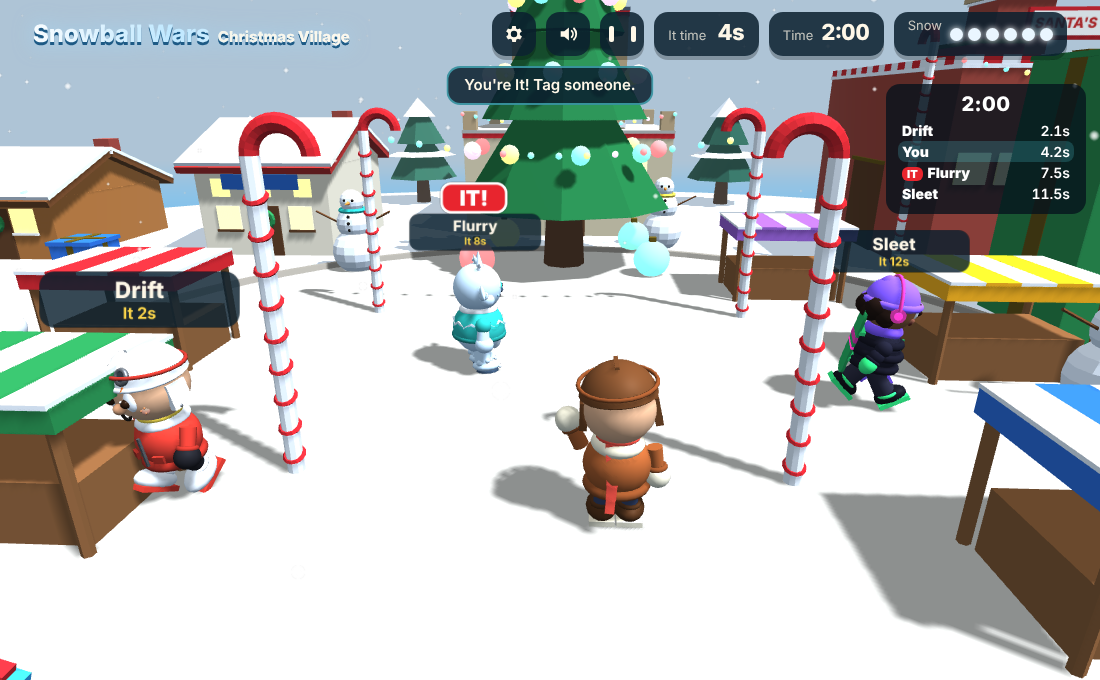
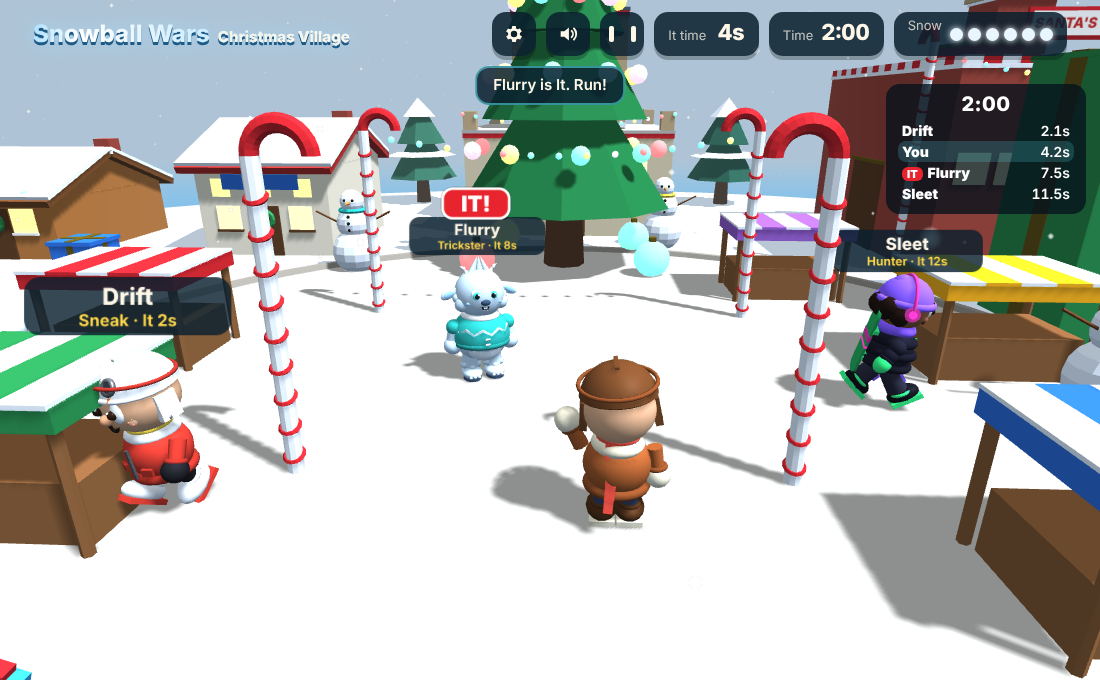
2.23.2: fix Tag bots never tagging; Hunter / Trickster / Sneak personalities; stunned It can't tag
Claude-Session: https://claude.ai/code/session_01SxDArWDFzscbpHeAT2armF

diff --git a/js/tag.js b/js/tag.js
@@ -23,7 +23,7 @@ function startTag(o={}){if(!canTag()&&!TAG.on)return;if(TAG.on)tagStop(false);if
   if(!MP.client){orbs.forEach(q=>rmObj(q.g));orbs=[];runHz.forEach(h=>rmObj(h.g));runHz=[];runQ=[]}
   dropCombo();score=0;
   const peers=warPeers(),n=o.bots!==undefined?o.bots:(peers.length?0:T.tag.bots);TAG.bots=[];
-  for(let k=0;k<n;k++){const b=makeBot(k);b.key='bot'+k;b.it=itSprite();b.a.g.add(b.it);b.it.position.y=3.35;b.cool=0;TAG.bots.push(b);TAG.itT[b.key]=0}
+  for(let k=0;k<n;k++){const b=makeBot(k);b.key='bot'+k;b.it=itSprite();b.a.g.add(b.it);b.it.position.y=3.35;b.cool=0;b.count=0;b.safeT=0;b.pers=TAG_PERS[k%TAG_PERS.length];TAG.bots.push(b);TAG.itT[b.key]=0}
   // who starts as It: a friend's game says; otherwise anyone at random
   if(o.it)TAG.it=o.it;else{const all=['me',...TAG.bots.map(b=>b.key),...peers.map(p=>p.peer)];TAG.it=all[Math.floor(Math.random()*all.length)]}
   if(TAG.it!=='me'&&!TAG.it.startsWith('bot')){TAG.seq++;TAG.last=[TAG.seq,TAG.it]}   // tell that friend they're It
@@ -63,7 +63,8 @@ function tagChecks(){if(TAG.cd>0)return;
     for(const b of TAG.bots)if(!(TAG.safeT>0&&TAG.safeFrom===b.key)&&tagNear(P.position.x,py,P.position.z,b.x,b.y,b.z)){passIt('me',b.key);return}
     for(const p of tagPeers()){if(TAG.safeT>0&&TAG.safeFrom===p.peer)continue;const a=MP.av.get(p.peer);if(a&&tagNear(P.position.x,py,P.position.z,a.g.position.x,a.g.position.y,a.g.position.z)){passIt('me',p.peer);return}}}
   const ib=TAG.bots.find(b=>b.key===TAG.it);
-  if(ib&&ib.count<=0){if(!(ib.safeT>0&&ib.safeFrom==='me')&&tagNear(ib.x,ib.y,ib.z,P.position.x,py,P.position.z)){passIt(ib.key,'me');return}
+  // a stunned It (hit by a snowball) can't tag
+  if(ib&&(ib.count||0)<=0&&ib.stun<=0){if(!(ib.safeT>0&&ib.safeFrom==='me')&&tagNear(ib.x,ib.y,ib.z,P.position.x,py,P.position.z)){passIt(ib.key,'me');return}
     for(const b of TAG.bots)if(b!==ib&&!(ib.safeT>0&&ib.safeFrom===b.key)&&tagNear(ib.x,ib.y,ib.z,b.x,b.y,b.z)){passIt(ib.key,b.key);return}}}
 // a friend tagged me (their presence names me in a tag they haven't sent before)
 function tagFromPeers(){for(const p of tagPeers()){const l=p.presence.tm[4];if(!Array.isArray(l)||!Number.isInteger(l[0]))continue;
@@ -75,22 +76,44 @@ function tagCatch(p,ball){if(!tagLive()||!ball.own)return false;
   return false}
 
 // ---------- computer players ----------
+// Each has a personality, shown on its name tag:
+//   Hunter (Sleet): fastest chaser, aims where you're going, goes after whoever's winning.
+//   Trickster (Flurry): zigzags and hops when running away; creeps up, then lunges.
+//   Sneak (Drift): runs early and far, to the corners; as It it picks on you, stalking then sprinting.
+const TAG_PERS=[
+  {label:'Hunter',chase:9.3,flee:7.4,fleeR:9,lead:1,target:'leader'},
+  {label:'Trickster',chase:8.2,flee:7.7,fleeR:10,lead:.4,target:'nearest',zig:1,hops:1,lunge:1},
+  {label:'Sneak',chase:8.0,flee:7.0,fleeR:15,lead:.6,target:'me',hide:1,stalk:1}];
+const fVel=k=>k==='me'?{x:vel.x,z:vel.z}:(()=>{const b=TAG.bots.find(q=>q.key===k);return b?{x:b.vx,z:b.vz}:{x:0,z:0}})();
 const fPos=k=>k==='me'?{x:P.position.x,y:py,z:P.position.z}:(()=>{const b=TAG.bots.find(q=>q.key===k);if(b)return{x:b.x,y:b.y,z:b.z};const a=MP.av.get(k);return a?{x:a.g.position.x,y:a.g.position.y,z:a.g.position.z}:null})();
-function tagThink(b,dt){const it=TAG.it===b.key,k=1-Math.exp(-8*dt),onG=b.y<=groundAt(b.x,b.z,b.y).h+.05;
-  let tx=b.x,tz=b.z,sp=0,tgt=null;
-  if(it){if(b.count>0){b.count-=dt}else{   // chase whoever's closest (not the one who just tagged it)
-      let bd=1e9;for(const k2 of ['me',...TAG.bots.filter(q=>q!==b).map(q=>q.key)]){if(b.safeT>0&&b.safeFrom===k2)continue;const f=fPos(k2);if(!f)continue;const d=Math.hypot(f.x-b.x,f.z-b.z)+Math.max(0,f.y-b.y)*2;if(d<bd){bd=d;tgt=f}}
-      if(tgt){tx=tgt.x;tz=tgt.z;sp=T.tag.chase}}}
-  else{const f=fPos(TAG.it);if(f&&Math.hypot(f.x-b.x,f.z-b.z)<11){   // run from the It, veering when walls get in the way
-      if((b.retarget-=dt)<=0){b.retarget=.8+Math.random();b.veer=(Math.random()-.5)*1.6}
-      const a=Math.atan2(b.x-f.x,b.z-f.z)+(b.veer||0);tx=b.x+Math.sin(a)*6;tz=b.z+Math.cos(a)*6;sp=T.tag.flee;
-      // keep off the rim
-      if(Math.hypot(tx,tz)>ARENA-3){const r=Math.hypot(b.x,b.z)||1;tx=b.x-b.x/r*4+(b.z/r)*5*(b.veer>0?1:-1);tz=b.z-b.z/r*4-(b.x/r)*5*(b.veer>0?1:-1)}}
-    else if((b.retarget-=dt)<=0){b.retarget=1.5+Math.random()*2;const s=freeSpot(3);b.tx=s.x;b.tz=s.z}else{tx=b.tx??b.x;tz=b.tz??b.z;sp=2.5}}
+function tagThink(b,dt){const it=TAG.it===b.key,k=1-Math.exp(-8*dt),onG=b.y<=groundAt(b.x,b.z,b.y).h+.05,Pe=b.pers||TAG_PERS[0];
+  let tx=b.x,tz=b.z,sp=0,tgt=null;b.lungeT=Math.max(0,(b.lungeT||0)-dt);b.lungeCd=Math.max(0,(b.lungeCd||0)-dt);
+  if(it){if(b.count>0){b.count-=dt}else{
+      // who to chase: Hunter -> whoever's winning, Sneak -> you, Trickster -> whoever's closest (never the one who just tagged it)
+      const opts=['me',...TAG.bots.filter(q=>q!==b).map(q=>q.key)].filter(k2=>!(b.safeT>0&&b.safeFrom===k2)).map(k2=>({k:k2,f:fPos(k2)})).filter(o=>o.f);
+      const reach=o=>o.f.y-b.y<T.tag.hopMax,dist=o=>Math.hypot(o.f.x-b.x,o.f.z-b.z)+Math.max(0,o.f.y-b.y)*2;
+      let pick=null;
+      if(Pe.target==='me'){const m=opts.find(o=>o.k==='me');if(m&&reach(m)&&dist(m)<22)pick=m}
+      if(!pick&&Pe.target==='leader'){const c=opts.filter(o=>reach(o)&&dist(o)<20).sort((a,b2)=>(TAG.itT[a.k]||0)-(TAG.itT[b2.k]||0));pick=c[0]||null}
+      if(!pick)pick=opts.sort((a,b2)=>dist(a)-dist(b2))[0]||null;
+      if(pick){tgt=pick.f;const d=Math.hypot(tgt.x-b.x,tgt.z-b.z),v=fVel(pick.k),lead=Math.min(1.2,d/Pe.chase)*Pe.lead;   // aim where they're going
+        tx=tgt.x+v.x*lead;tz=tgt.z+v.z*lead;sp=Pe.chase;
+        if(Pe.stalk)sp=d>6?Pe.chase*.72:Pe.chase*1.15;                                       // Sneak: stalk, then sprint
+        if(Pe.lunge){if(d<4.5&&b.lungeCd<=0){b.lungeT=.5;b.lungeCd=2.6;SFX.ui(2)}sp=b.lungeT>0?Pe.chase*1.4:d>5?Pe.chase:Pe.chase*.8}}}}   // Trickster: creep, lunge
+  else{const f=fPos(TAG.it),d=f?Math.hypot(f.x-b.x,f.z-b.z):99;
+    if(f&&d<Pe.fleeR){
+      if((b.retarget-=dt)<=0){b.retarget=Pe.zig?.35+Math.random()*.35:.8+Math.random();b.veer=(Math.random()-.5)*(Pe.zig?2.4:1.6)}
+      if(Pe.hide&&((b.hideT=(b.hideT||0)-dt)<=0||!b.hide)){b.hideT=2;let best=null,bd=-1;for(let n=0;n<8;n++){const q=freeSpot(3),dd=Math.hypot(q.x-f.x,q.z-f.z);if(dd>bd){bd=dd;best=q}}b.hide=best}
+      if(Pe.hide&&b.hide&&Math.hypot(b.hide.x-b.x,b.hide.z-b.z)>1.5){tx=b.hide.x;tz=b.hide.z}   // Sneak: head for the far side
+      else{const a=Math.atan2(b.x-f.x,b.z-f.z)+(b.veer||0);tx=b.x+Math.sin(a)*6;tz=b.z+Math.cos(a)*6}
+      sp=Pe.flee;
+      if(Math.hypot(tx,tz)>ARENA-3){const r=Math.hypot(b.x,b.z)||1;tx=b.x-b.x/r*4+(b.z/r)*5*(b.veer>0?1:-1);tz=b.z-b.z/r*4-(b.x/r)*5*(b.veer>0?1:-1)}
+      if(Pe.hops&&onG&&(b.hopT||0)<=0&&Math.random()<dt*1.2){b.vy=8.5;b.hopT=.9}}             // Trickster: hop about
+    else if((b.retarget-=dt)<=0){b.retarget=1.5+Math.random()*2;const q=freeSpot(3);b.tx=q.x;b.tz=q.z}else{tx=b.tx??b.x;tz=b.tz??b.z;sp=2.5}}
   const ex=tx-b.x,ez=tz-b.z,el=Math.hypot(ex,ez);
   b.vx+=((el>.3?ex/el:0)*sp-b.vx)*k;b.vz+=((el>.3?ez/el:0)*sp-b.vz)*k;
   if(Math.hypot(b.vx,b.vz)>.5)b.face+=angD(Math.atan2(b.vx,b.vz),b.face)*Math.min(1,dt*10);
-  // hop up after someone on a low ledge (or over a wall in the way)
+  // hop up after someone on a low ledge
   b.hopT=Math.max(0,(b.hopT||0)-dt);
   if(it&&tgt&&onG&&b.hopT<=0&&b.count<=0){const dy=tgt.y-b.y,dh=Math.hypot(tgt.x-b.x,tgt.z-b.z);
     if(dy>.6&&dy<T.tag.hopMax&&dh<5){b.vy=Math.sqrt(2*T.gravity*(dy+.8));b.hopT=1.2;SFX.ui(1)}}}
@@ -99,7 +122,7 @@ function updateTagBot(b,dt){const a=b.a;a.g.visible=true;
   if(b.stun>0){b.vx*=Math.exp(-2.5*dt);b.vz*=Math.exp(-2.5*dt)}else if(TAG.cd<=0)tagThink(b,dt);else{b.vx*=.8;b.vz*=.8}
   botMove(b,dt);a.stars.visible=b.stun>0;if(b.stun>0){a.stars.position.set(0,2.35,0);a.stars.rotation.y+=dt*7}
   b.it.visible=TAG.it===b.key;if(b.it.visible)b.it.position.y=3.35+Math.sin(tAll*6)*.08;
-  botPose(b,dt);drawTag(a,b.name,`It ${Math.round(TAG.itT[b.key]||0)}s`,false)}
+  botPose(b,dt);drawTag(a,b.name,`${(b.pers||{}).label||''} \u00b7 It ${Math.round(TAG.itT[b.key]||0)}s`,false)}
 
 // ---------- every frame ----------
 function tagUpdate(dt){

diff --git a/tests/tag-check.js b/tests/tag-check.js
@@ -15,9 +15,14 @@ b.stun=0;b.x=P.position.x+.8;b.z=P.position.z;__step(5);ok('no tag-back right aw
 // after the safe time, the It bot catches me if I stand still
 for(let i=0;i<60*20&&TAG.it!=='me';i++)__step(1);ok('the It chases and tags someone (now It: '+tagName(TAG.it)+')',TAG.it!==b.key||TAG.it==='me');
 // time as It goes to whoever is It
-TAG.it='bot1';const t1=TAG.itT.bot1;__step(60);ok('the clock counts time as It for whoever has it',TAG.itT.bot1>t1+.9);
+TAG.it='bot1';TAG.bots.forEach(q=>q.stun=3);const t1=TAG.itT.bot1;__step(60);ok('the clock counts time as It for whoever has it',TAG.itT.bot1>t1+.9);
 // snowballs stun computer players
 const b2=TAG.bots[2];b2.stun=0;launchSnowball([b2.x,b2.y+1.1,b2.z,.01,0,0],true,null,++SB.seq);__step(2);ok('a snowball stuns a computer player',b2.stun>0);
+// a computer It catches you (the Sneak goes after you), but not while stunned
+{const sn=TAG.bots.find(q=>q.pers.label==='Sneak');TAG.it=sn.key;sn.count=0;sn.safeT=0;sn.stun=0;TAG.safeT=0;sn.x=P.position.x+3;sn.z=P.position.z;sn.y=py;let t=0;for(;t<300&&TAG.it!=='me';t++)__step(1);
+ ok('the Sneak, as It, catches you ('+(t/60).toFixed(1)+'s)',TAG.it==='me');
+ TAG.it=sn.key;sn.count=0;sn.safeT=0;sn.stun=3;sn.x=P.position.x+.5;sn.z=P.position.z;__step(20);ok('a stunned It can\'t tag you',TAG.it===sn.key);sn.stun=0}
+ok('name tags show each personality',TAG.bots.map(q=>q.pers.label).join(',')==='Hunter,Trickster,Sneak');
 // hops: the It hops up after you onto a low ledge
 TAG.it='bot0';const h=TAG.bots[0];h.count=0;h.safeT=0;h.stun=0;h.hopT=0;
 pause();ok('pause during Tag: '+btns().join(', '),btns().join('|')==='Resume|Restart tag|End tag|Moves|Settings|Quit to menu');resume();

diff --git a/js/tuning.js b/js/tuning.js
@@ -59,7 +59,7 @@ const T={
   race:{spill:200,spillOrb:100,botSpeed:5.4},
   // Tag: round length, the new It's count before it can tag, no-tag-back time, touch reach, computer players and
   // their chase / flee speeds, and how high they can hop after you
-  tag:{time:120,count:1.5,noBack:2,reach:1.3,bots:3,chase:8.6,flee:7.2,hopMax:4.2},
+  tag:{time:120,count:1.5,noBack:2,reach:1.3,bots:3,hopMax:4.2},   // chase / flee speeds live in each personality (TAG_PERS in tag.js)
   wars:{time:180,hp:3,hit:100,trick:200,ko:250,respawn:2.5,invuln:2.5,bots:3,packs:6,packSmall:2,packBig:4,regen:8},   // packs: snowball pickups on the map (small on the ground, big up high / mid-air)
   camera:{height:10.5,back:13,autoTurn:2.6}   // autoTurn: Free + auto's turn speed (rad/s) when running fully sideways
 };

diff --git a/tests/comment_scan.py b/tests/comment_scan.py
@@ -1,0 +1,11 @@
+import re,sys,glob
+bad=[]
+for f in glob.glob(sys.argv[1]+'/js/**/*.js',recursive=True):
+    for n,l in enumerate(open(f).read().split('\n'),1):
+        i=l.find("//")
+        if l.strip().startswith("//"):continue
+        if i<0 or l[:i].count("'")%2 or l[:i].count('`')%2 or 'http' in l[i-6:i+2]:continue
+        c=l[i:]
+        # code glued onto a comment: "...wordif(", "...word){", ";" followed by identifiers, "=>" etc.
+        if re.search(r"[a-z\)](if|for|const|let|return|else)\(|\)\{|;\s*[a-zA-Z_$][\w$.]*\(|=>\{|\}\)\)?;",c):bad.append(f"{f}:{n}: {l.strip()[:160]}")
+print('\n'.join(bad) if bad else 'clean')

diff --git a/CHANGELOG.md b/CHANGELOG.md
@@ -3,6 +3,20 @@
 All notable changes to Snowball Wars (formerly Orb Run, then briefly Frosty Falls).
 Versions before 2.1.0 were numbered afterwards, when the project moved to GitHub; their dates weren't recorded.
 
+## [2.23.2] - 2026-11-23 — Tag bots that actually tag
+### Fixed
+- **A computer player who started a round of Tag as It could never tag anyone**, so the round stalled. Its
+  "ready to tag" timer started unset and was read as "not yet" forever. In a simulated 100 seconds of bots-only
+  Tag they now make about 20 tags (was 0-1).
+- A stunned It (hit by a snowball) can no longer tag anyone until the stun wears off.
+### Added
+- **Tag personalities**, shown on each computer player's name tag:
+  - **Sleet, the Hunter:** the fastest chaser; aims where you're going, not where you are; goes after whoever's
+    winning (least time as It).
+  - **Flurry, the Trickster:** zigzags and hops when running away; creeps up, then lunges.
+  - **Drift, the Sneak:** runs away early, to the far side; as It it picks on you, stalking and then sprinting.
+- `tests/comment_scan.py`: flags code accidentally hidden behind a `//` comment on the same line.
+
 ## [2.23.1] - 2026-11-23 — Village stars, Play menu
 ### Changed
 - **Orb style has a new default, Auto:** each map picks its own style, so Christmas Village uses stars and every
